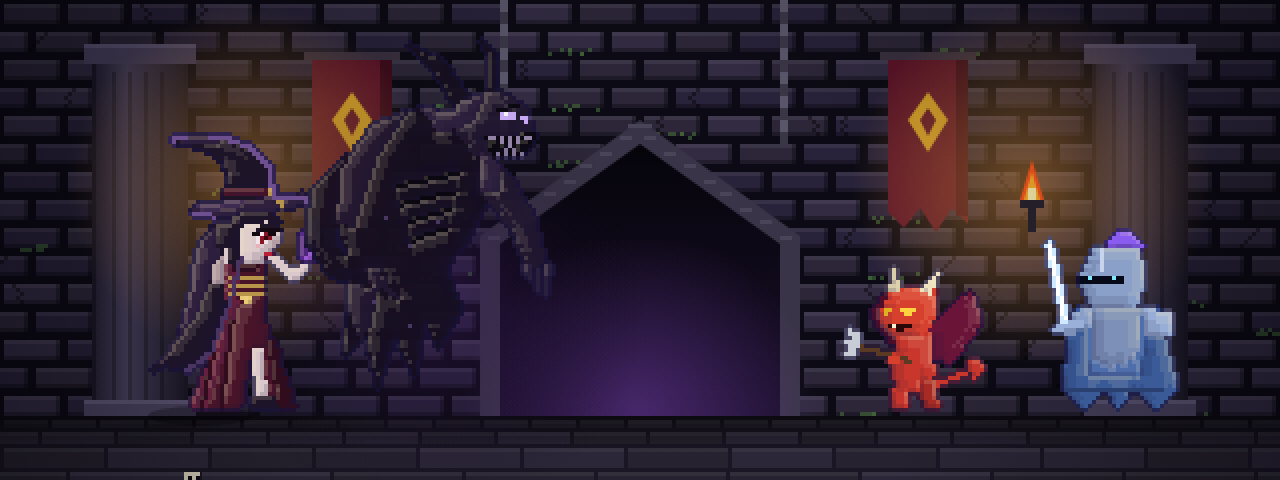
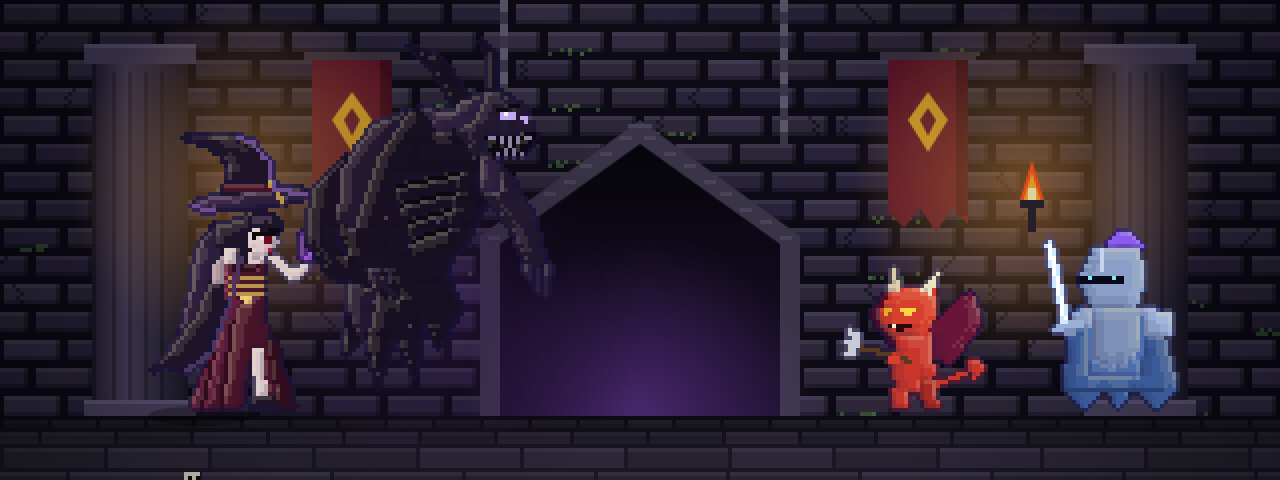
見本：魔女の顔を小さく整えた
Claude-Session: https://claude.ai/code/session_01WH54oS4KmYdGRLZPTJSRWC

Changed region(s): [[0.125, 0.2812, 0.25, 0.5625]]

diff --git a/dev/mock/witch.js b/dev/mock/witch.js
@@ -17,15 +17,15 @@ SD.witch=[38,46,3,A0=>{const{r,p,q,l,t,e,sh,pt}=OFS(A0,6);const BK='#1e1428',BK2
  // 奥の腕（腰へ）
  pt('ab',()=>{t([[17,13.6],[15,15.4],[14.4,19],[16,20.4],[16.6,17]],SK2);t([[14,18.6],[16.6,19],[16.6,20.6],[14.6,20.6]],BK)});
  // 頭と帽子
- pt('hd',()=>{t([[18.6,8.2],[22,7.2],[25,8.4],[25.8,10.6],[25.2,12.6],[23.8,14.2],[21.8,14.6],[19.8,13.8],[18.6,11.4]],SK);t([[18.2,7.4],[21.6,6.4],[25.4,7.2],[25.8,8.8],[23.6,8.2],[21.4,8.8],[19.8,8.6],[19.2,11],[19,16],[17.4,15.4],[17.4,10]],BK);{const H=OFS({t,l,e,r,q,p},-1.8);H.t([[12,7.4],[29.6,5.4],[31.4,6.6],[27,8],[15,9.2],[11.4,8.6]],BK2);H.t([[12,7.4],[20,6.4],[19,7.6],[13,8.6]],BK3);
+ pt('hd',()=>{t([[19,9],[21,7],[24,6.8],[25.8,8.4],[24,10],[21.4,12],[20.6,15],[19.4,16.6],[18.4,15.4],[18.6,11]],BK);t([[21.2,13.4],[23,13.6],[22.8,15],[21.4,15]],SK2);t([[20.4,9],[22.8,8],[24.8,8.6],[25.6,10.4],[25.3,12.2],[24.2,13.6],[22.8,14.2],[21.4,13.6],[20.6,12]],SK);t([[20,9.6],[21,7.6],[23,7],[25.2,7.6],[26,9],[25,9.4],[23.8,8.8],[22.4,9.4],[21.2,9.4],[20.8,10.4]],BK);l(21.4,7.8,24.6,7.4,BK3,.25);{const H=OFS({t,l,e,r,q,p},-2.8);H.t([[12,7.4],[29.6,5.4],[31.4,6.6],[27,8],[15,9.2],[11.4,8.6]],BK2);H.t([[12,7.4],[20,6.4],[19,7.6],[13,8.6]],BK3);
   H.t([[16.6,6.8],[25,5.8],[24,1],[21.4,-2],[17.6,-3.6],[12,-4.6],[8,-3.4],[13,-2],[16.4,0],[17.6,3]],BK);H.t([[17.6,-3.6],[12,-4.6],[8,-3.4],[13,-2.6]],BK2);
   H.r(16.6,4.6,8.6,1.2,WN);H.e(24.6,5,.7,.7,GD);H.l(25,5.2,26.4,7.6,GD,.2)}});
  // 手前の腕：前へ差し出した手のひらに紫の炎
  pt('af',()=>{t([[23,13.4],[25,13.8],[28.6,16.6],[27.6,18]],SK);t([[27.6,16],[30.6,15.4],[31,16.6],[28.4,18]],SK);
   t([[29.6,15],[31.6,15],[32.6,11],[31.6,8],[30.6,11],[29.6,9.6]],'#5a2a8a');t([[30.2,15],[31.4,15],[31.8,12],[31,10.4],[30.6,12.6]],'#9a5ad0')});
  sh();
- pt('hd',()=>{t([[21.8,10.2],[24.8,9.8],[24.6,11.6],[22.2,11.8]],'#f0e4e8');t([[22.8,10.2],[24.4,10],[24.3,11.6],[22.9,11.7]],'#8a1424');t([[23.2,10.6],[24,10.5],[23.9,11.2],[23.3,11.3]],'#3a0610');q(23.3,10.5,'#ffe8ee');l(21.6,10.1,25,9.6,'#120a10',.3);l(24.6,10.1,25.4,9.6,'#120a10',.15);l(22.2,9.4,24.8,9,BK,.15);l(25.4,11.6,25.2,12.4,SK2,.15);t([[23.4,13.2],[25,13],[24.6,13.8],[23.6,13.8]],RD);q(22.4,12.6,'#e8b0b8')});
- pt('hd',()=>{const R='#6e5090';for(const[a,b,c,d]of[[8,-3.4,12,-4.6],[12,-4.6,17.6,-3.6],[17.6,-3.6,21.4,-2],[21.4,-2,24,1],[24,1,25,5.8],[25,5.8,31.4,6.6],[11.4,8.6,15,9.2]])l(a,b-1.8,c,d-1.8,R,.3)});
+ pt('hd',()=>{t([[22.9,10.3],[24.7,10.1],[24.6,12],[23.1,12.1]],'#f4eaee');t([[23.4,10.4],[24.5,10.3],[24.4,12],[23.5,12.1]],'#6a0c1c');t([[23.7,10.9],[24.3,10.8],[24.2,11.8],[23.8,11.9]],'#a8203a');q(23.6,10.6,'#ffffff');l(22.7,10.2,25,9.9,'#0e0810',.3);l(24.8,10,25.4,9.5,'#0e0810',.15);l(21.4,10.7,22,10.6,'#0e0810',.2);l(23,9.4,24.8,9.2,BK,.12);q(25.4,11.9,SK2);t([[23.8,13],[24.8,12.9],[24.6,13.3],[24,13.3]],RD);q(23.8,12.4,'#e8b4be');q(21.8,12.2,'#e8b4be')});
+ pt('hd',()=>{const R='#6e5090';for(const[a,b,c,d]of[[8,-3.4,12,-4.6],[12,-4.6,17.6,-3.6],[17.6,-3.6,21.4,-2],[21.4,-2,24,1],[24,1,25,5.8],[25,5.8,31.4,6.6],[11.4,8.6,15,9.2]])l(a,b-2.8,c,d-2.8,R,.3)});
  for(const[a,b,c,d]of[[19,14,17,22],[17,22,14,30],[14,30,10,33]])l(a+.6,b,c+.6,d,'#4a3462',.3);
  pt('af',()=>{q(31,12.6,'#e8c8ff')})}];
 // 影の悪魔：魔女より大きい。猫背の大きな肩、後ろへ反った角、裂けた口、長い腕。下は煙の裾になって宙に浮く
